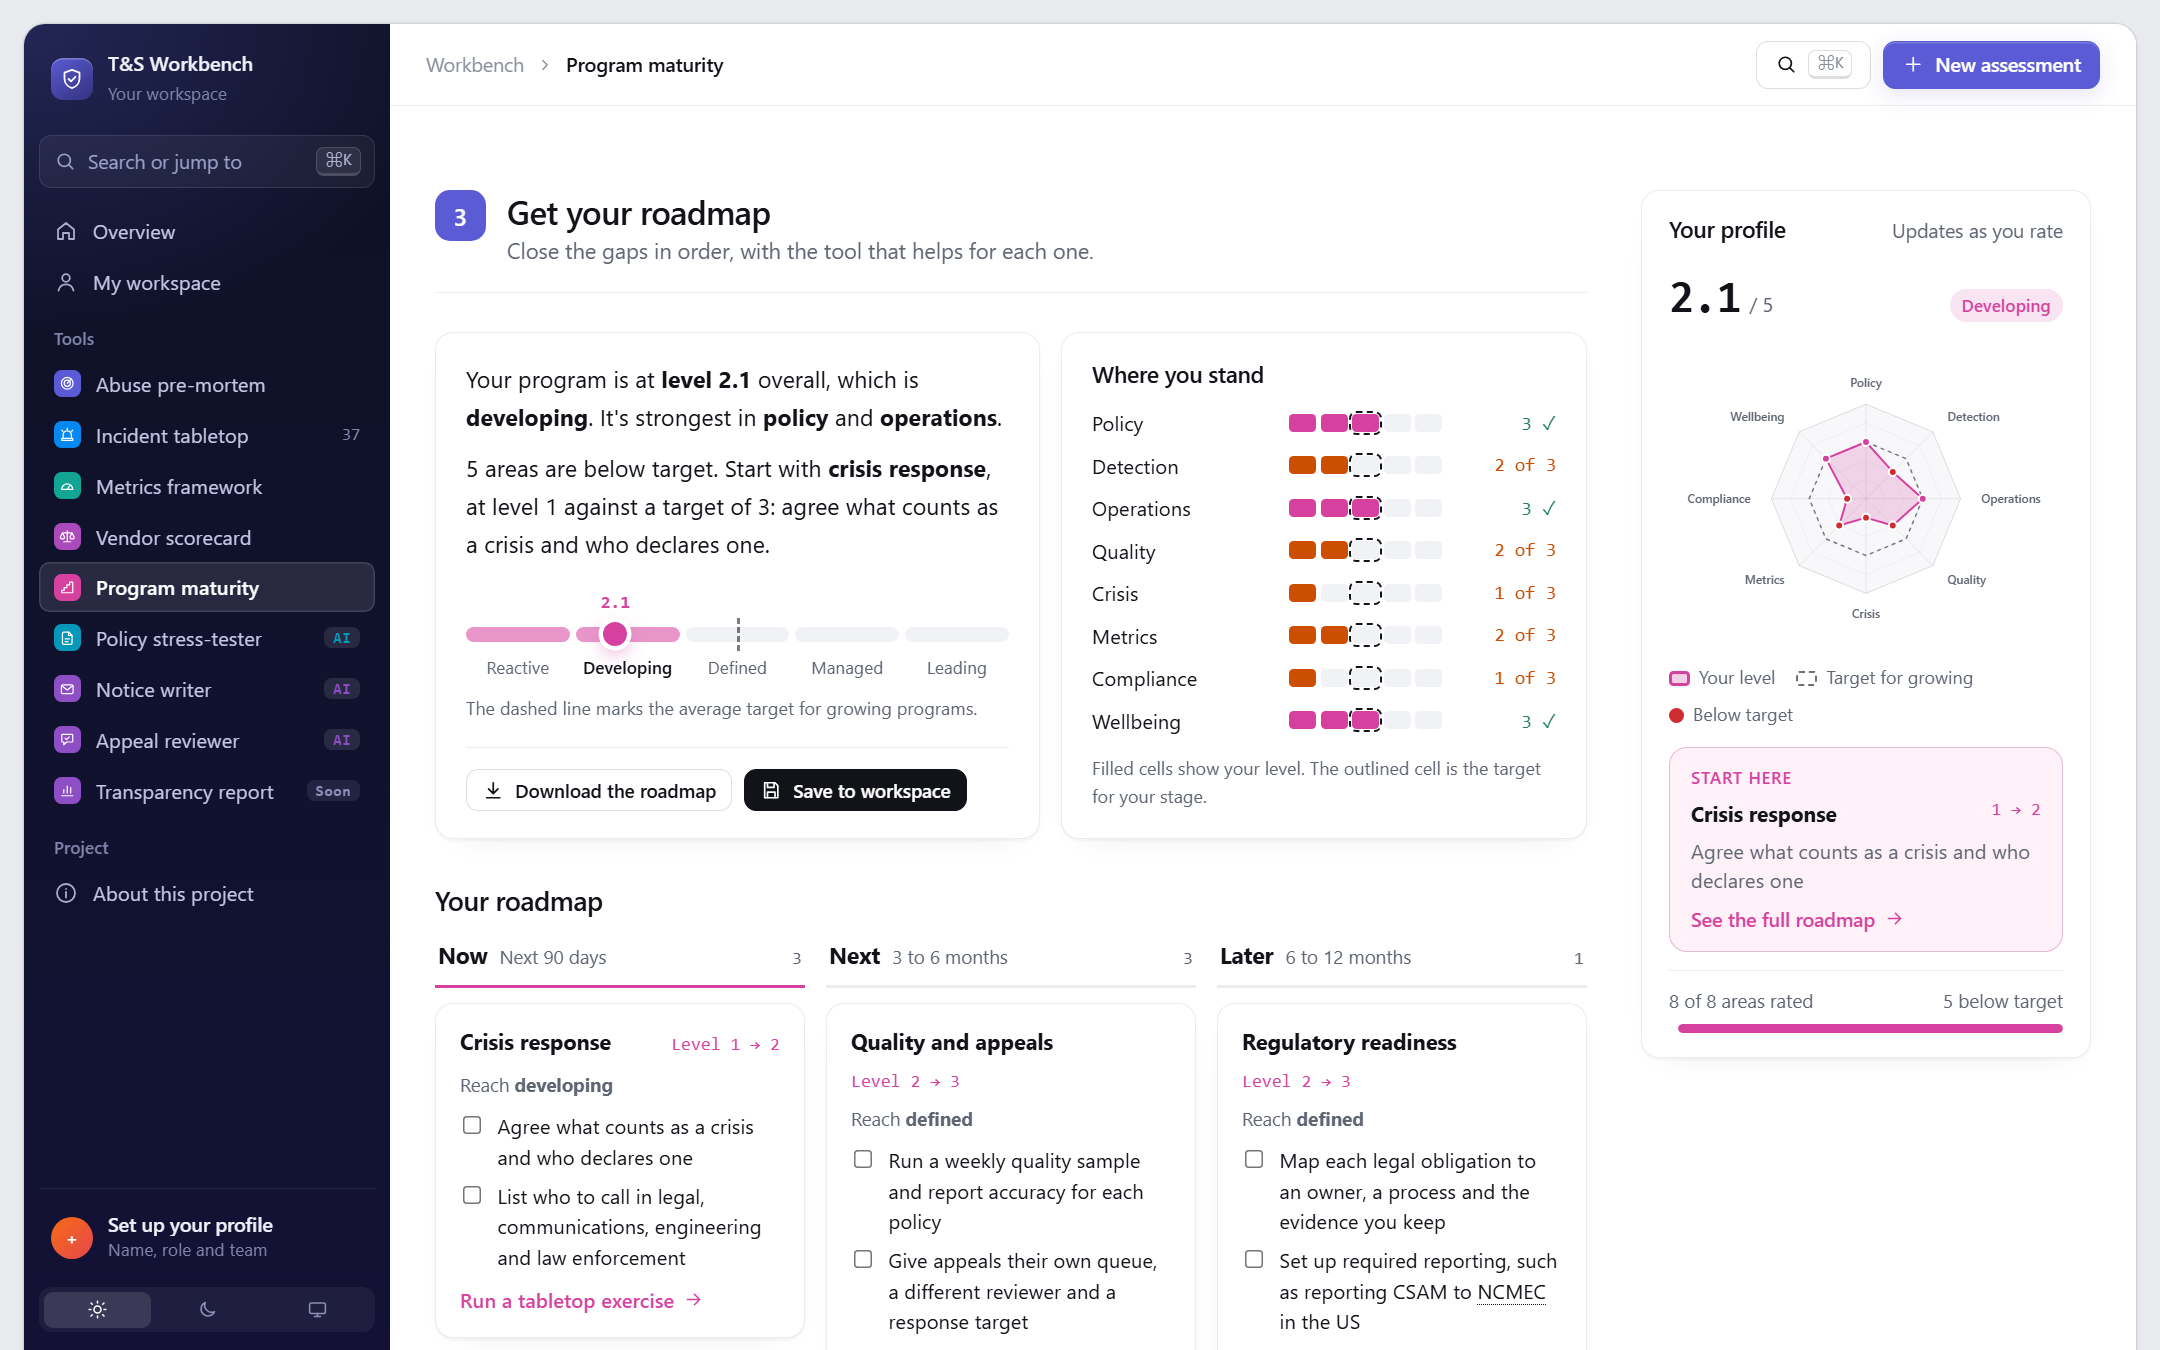
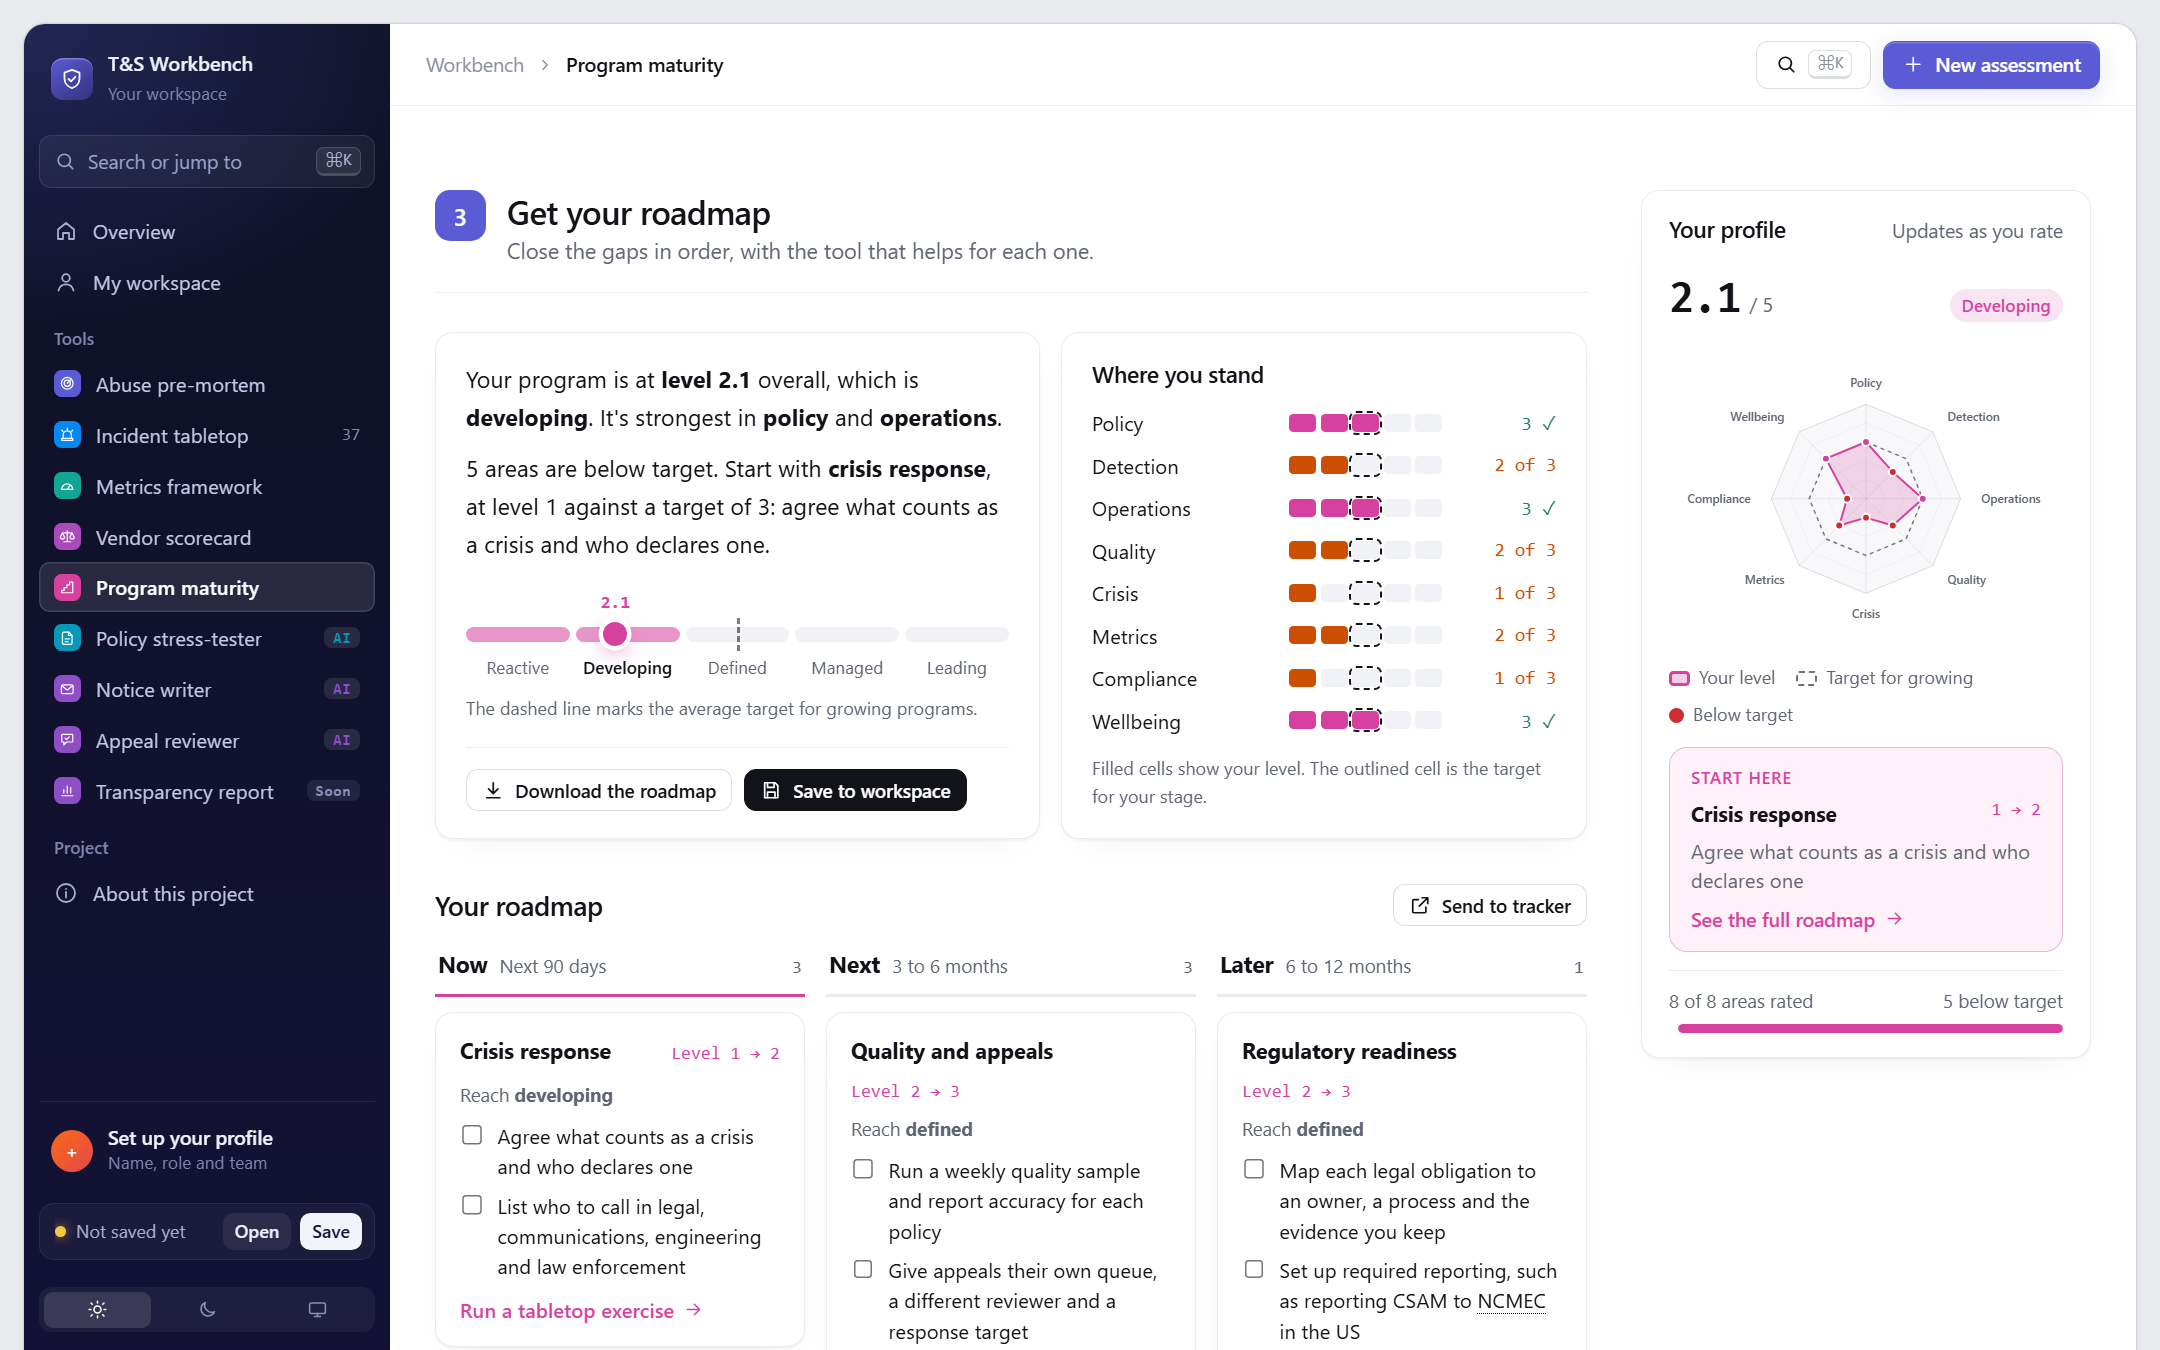
Profile file you can open on any device; send launch plans and maturity roadmaps to Jira, Asana, Linear or GitHub

diff --git a/README.md b/README.md
@@ -18,6 +18,8 @@ Leaders are asked "how mature is our safety program?" by boards, regulators, acq
 2. **Rate each area.** One area at a time, pick the highest level where every statement is true today.
 3. **Get your roadmap.** A radar of where you stand, and steps sorted into now, next and later, one level at a time.
 
+Send the roadmap to Jira, Asana or Linear as a CSV, or open each step as a pre-filled Jira, Linear or GitHub issue.
+
 ## What's in this repo
 
 The tool's knowledge, published as open content you can read, reuse and adapt.
@@ -41,6 +43,8 @@ The tool's knowledge, published as open content you can read, reuse and adapt.
 ![maturity-roadmap](assets/maturity-roadmap.png)
 
 ![maturity-areas](assets/maturity-areas.png)
+
+![maturity-tracker](assets/maturity-tracker.png)
 
 ## License and credit
 
